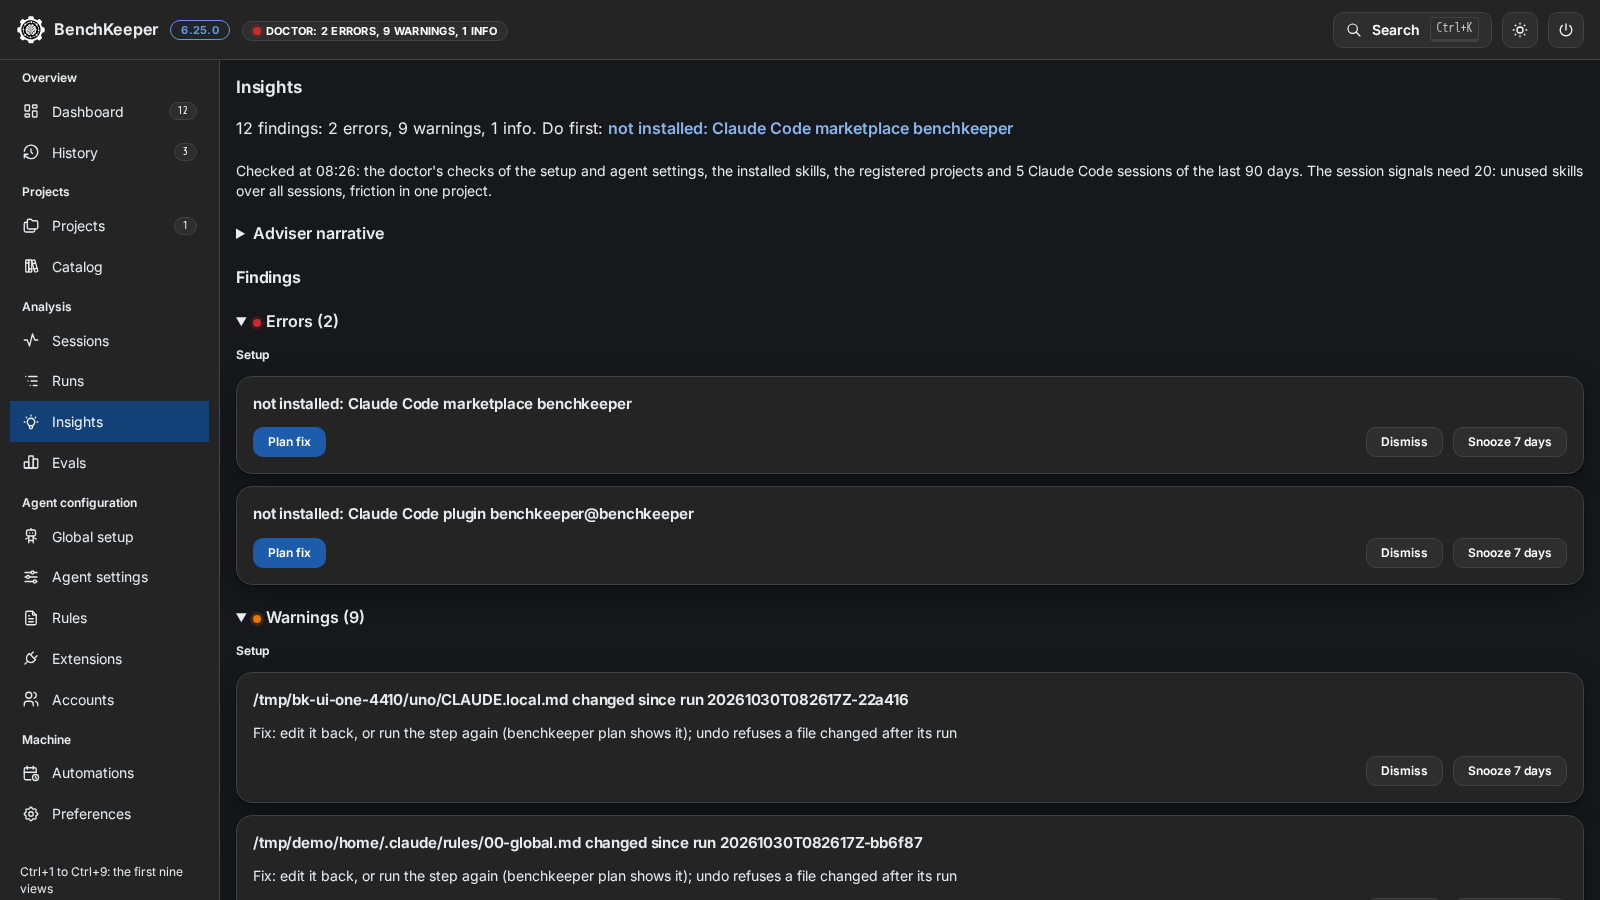
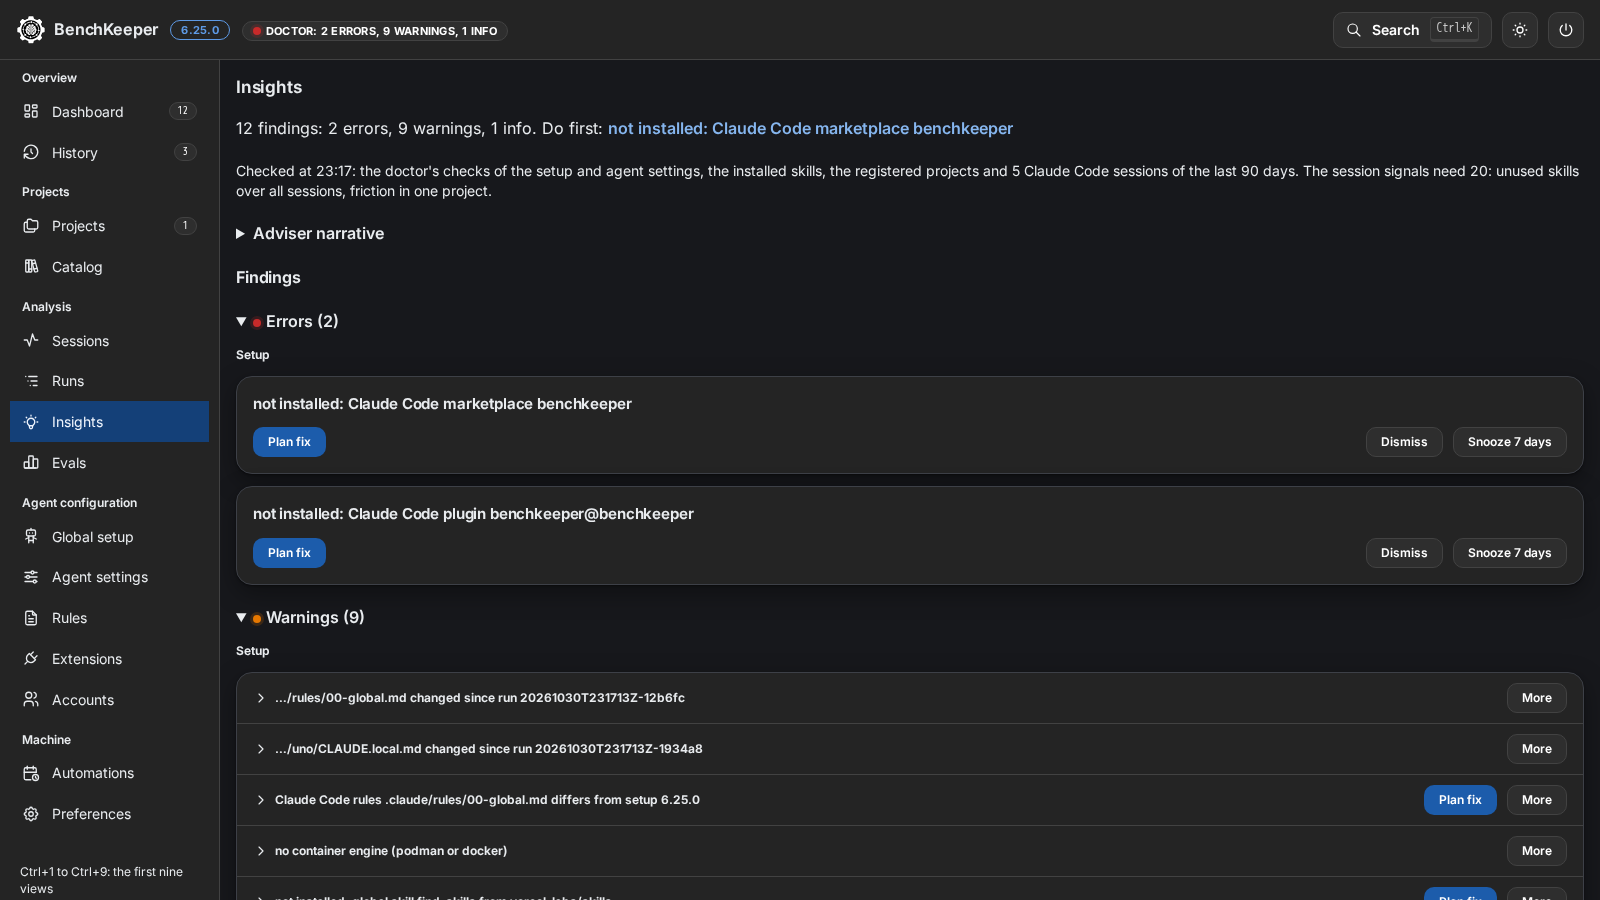
feat(app): show Insights errors as cards and the rest as rows (#841)
* feat(app): show Insights errors as cards and the rest as rows

Errors keep their full cards. Warnings and info are one-line rows on one
surface per area: the title, the fix button and a More menu with Dismiss
and Snooze 7 days. The title opens the full message, the evidence, the
setting facts, the fix hint and the documentation link. A path of four or
more parts shows its last two in a row's title, in full on hover and in
the opened row.

Refs #814

* feat(app): shorten Insights paths with spaces in folder names

A folder name in a row title's path may hold spaces; the last part may not, as the words after a path are not part of it. The Insights UI test reaches Snooze 7 days through the More menu with the arrow keys.

Refs #814

* feat(app): shorten Insights paths that start with a tilde or a dot

A row title also shortens a path written from the home folder (~/...) or from the current folder (./...).

Refs #814

* fix(app): name the Insights row details only while they are open

The title button of a row sets aria-controls only while the details it controls are on the page.

Refs #814

* fix(app): disable the Insights row menu items while a triage is saved

Dismiss and Snooze 7 days in a row's More menu wait while a triage is saved, as the More button and the card buttons do.

Refs #814

* test(app): check that a row's More waits while an Insights triage is saved

Refs #814

diff --git a/app/ui/insights.jsx b/app/ui/insights.jsx
@@ -1,11 +1,12 @@
-import { Anchor, Badge, Button, Code, Group, List, Loader, Modal, Paper, Radio, Stack, Text, Title } from '@mantine/core';
+import { Anchor, Badge, Box, Button, Code, Group, List, Loader, Menu, Modal, Paper, Radio, Stack, Text, Title, UnstyledButton } from '@mantine/core';
+import { IconChevronDown, IconChevronRight } from '@tabler/icons-react';
 import { useMemo, useRef, useState } from 'react';
 import { api } from './api.js';
 import { splitSource } from './fixsource.js';
 import { LEVEL_COLOR, fixAction } from './fix.jsx';
 import { levelCounts } from '../src/levels.mjs';
 import { CancelJob, Cli, SettingFactsOf, useJob } from './parts.jsx';
-import { Dot, Loading, Note, href, useAnnounce, useApi } from './shell.jsx';
+import { Dot, Loading, Note, href, icon, useAnnounce, useApi } from './shell.jsx';
 import { ActionPlan } from './skillstates.jsx';
 
 const SEVERITIES = [['error', 'Errors'], ['warning', 'Warnings'], ['info', 'Info']];
@@ -34,21 +35,45 @@ function Evidence({ finding: { evidence: e } }) {
 // A skill proposal opens the plan of its project with the same switches as the Catalog; nothing is written before that plan is applied.
 const proposal = (f) => f.evidence.action && { dir: f.evidence.dir, title: f.message, params: f.evidence.skills.flatMap((s) => [[f.evidence.action, s.name], ['focus', s.name]]) };
 
+// What the setup can do about a finding: the doctor's finding shape decides whether the setup can fix it, as in the Dashboard.
+const fixOf = (f) => ({ action: fixAction({ ...f.evidence, message: f.message, fix: f.fix }), plan: proposal(f), ...splitSource(f.fix) });
+
+function Details({ finding: f, fix: { action, plan, text, source } }) {
+  return (
+    <>
+      {f.settings && <SettingFactsOf settings={f.settings} />}
+      <Evidence finding={f} />
+      {!((action || plan) && f.fix.startsWith('benchkeeper ')) && <Text size="sm">Fix: {text}</Text>}
+      {source && <Anchor href={source} target="_blank" rel="noreferrer" size="sm" title={source} w="fit-content">Documentation</Anchor>}
+    </>
+  );
+}
+
+function FixButtons({ fix: { action, plan }, onPlan }) {
+  return (
+    <>
+      {action && <Button component="a" href={action[0]} size="xs">{action[1]}</Button>}
+      {plan && <Button size="xs" onClick={() => onPlan(plan)}>Plan</Button>}
+    </>
+  );
+}
+
+// A path of four or more parts shows its last two in a row's title; the title's hover and the opened row show it in full.
+// A folder name may hold spaces; the last part may not, as the words after a path are not part of it.
+const PATH = /(?<![\w:/.~-])(?:[~.]|[A-Za-z]:)?(?:[\\/][^\s\\/:,;()'"]+(?: [^\s\\/:,;()'"]+)*(?=[\\/])){3,}[\\/][^\s\\/:,;()'"]+/g;
+const shortPaths = (text) => text.replace(PATH, (p) => `\u2026/${p.split(/[\\/]/).slice(-2).join('/')}`);
+// Errors are full cards; warnings and info are rows, so the summary names a finding as its card or row does.
+const titleOf = (f) => (f.severity === 'error' ? f.message : shortPaths(f.message));
+
 function Card({ finding: f, busy, onTriage, onPlan }) {
-  // The doctor's finding shape decides whether the setup can fix it, as in the Dashboard.
-  const action = fixAction({ ...f.evidence, message: f.message, fix: f.fix });
-  const plan = proposal(f), { text, source } = splitSource(f.fix);
+  const fix = fixOf(f);
   return (
     <Paper component="article" withBorder p="md" aria-labelledby={`finding-${f.key}`}>
       <Stack gap="sm">
         <Title order={4} size="h5" id={`finding-${f.key}`} tabIndex={-1} style={{ overflowWrap: 'anywhere' }}>{f.message}</Title>
-        {f.settings && <SettingFactsOf settings={f.settings} />}
-        <Evidence finding={f} />
-        {!((action || plan) && f.fix.startsWith('benchkeeper ')) && <Text size="sm">Fix: {text}</Text>}
-        {source && <Anchor href={source} target="_blank" rel="noreferrer" size="sm" title={source} w="fit-content">Documentation</Anchor>}
+        <Details finding={f} fix={fix} />
         <Group gap="xs">
-          {action && <Button component="a" href={action[0]} size="xs">{action[1]}</Button>}
-          {plan && <Button size="xs" onClick={() => onPlan(plan)}>Plan</Button>}
+          <FixButtons fix={fix} onPlan={onPlan} />
           <Group gap="xs" ml="auto">
             <Button size="xs" variant="default" disabled={busy} onClick={() => onTriage(f, 'dismiss')}>Dismiss</Button>
             <Button size="xs" variant="default" disabled={busy} onClick={() => onTriage(f, 'snooze')}>Snooze 7 days</Button>
@@ -56,6 +81,39 @@ function Card({ finding: f, busy, onTriage, onPlan }) {
         </Group>
       </Stack>
     </Paper>
+  );
+}
+
+// One line: the title opens the evidence and the fix hint, Dismiss and Snooze wait under More. The rows of an area share one surface.
+function Row({ finding: f, first, busy, onTriage, onPlan }) {
+  const [open, setOpen] = useState(false);
+  const fix = fixOf(f), title = shortPaths(f.message);
+  return (
+    <Box component="article" px="md" py="xs" aria-labelledby={`finding-${f.key}`} style={first ? undefined : { borderTop: '1px solid var(--mantine-color-default-border)' }}>
+      <Group gap="xs">
+        <Title order={4} size="h6" id={`finding-${f.key}`} tabIndex={-1} style={{ flex: '1 1 16rem', minWidth: 0 }}>
+          <UnstyledButton aria-expanded={open} aria-controls={open ? `finding-more-${f.key}` : undefined} title={f.message} onClick={() => setOpen(!open)} fz="inherit" fw="inherit" ta="left" style={{ display: 'flex', gap: 6, alignItems: 'center', overflowWrap: 'anywhere' }}>
+            <span style={{ display: 'flex', flexShrink: 0 }}>{icon(open ? IconChevronDown : IconChevronRight)}</span>{title}
+          </UnstyledButton>
+        </Title>
+        <Group gap="xs" ml="auto">
+          <FixButtons fix={fix} onPlan={onPlan} />
+          <Menu withinPortal={false} position="bottom-end">
+            <Menu.Target><Button size="xs" variant="default" disabled={busy}>More</Button></Menu.Target>
+            <Menu.Dropdown>
+              <Menu.Item disabled={busy} onClick={() => onTriage(f, 'dismiss')}>Dismiss</Menu.Item>
+              <Menu.Item disabled={busy} onClick={() => onTriage(f, 'snooze')}>Snooze 7 days</Menu.Item>
+            </Menu.Dropdown>
+          </Menu>
+        </Group>
+      </Group>
+      {open && (
+        <Stack gap="sm" mt="xs" id={`finding-more-${f.key}`}>
+          {title !== f.message && <Text size="sm" style={{ overflowWrap: 'anywhere' }}>{f.message}</Text>}
+          <Details finding={f} fix={fix} />
+        </Stack>
+      )}
+    </Box>
   );
 }
 
@@ -190,7 +248,7 @@ export function Insights() {
             <>
               {error && <Note color="red" title="Not saved">{error}</Note>}
               <Text>
-                {order.length ? <>{plural(order.length, 'finding')}: {counts}. Do first: <Anchor component="button" fw={600} ta="left" onClick={() => goTo(order[0])}>{order[0].message}</Anchor></>
+                {order.length ? <>{plural(order.length, 'finding')}: {counts}. Do first: <Anchor component="button" fw={600} ta="left" onClick={() => goTo(order[0])}>{titleOf(order[0])}</Anchor></>
                   : hidden.length ? `No findings shown: ${hidden.length} dismissed or snoozed.` : 'No findings.'}
               </Text>
               <Text size="sm">
@@ -207,7 +265,9 @@ export function Insights() {
                     {areas.map(([area, list]) => (
                       <Stack key={area} gap="sm">
                         <Title order={3} size="h6">{area}</Title>
-                        {list.map((f) => <Card key={f.key} finding={f} busy={busy != null} onTriage={(g, a) => triage(g, a, next(g))} onPlan={setAct} />)}
+                        {sev === 'error'
+                          ? list.map((f) => <Card key={f.key} finding={f} busy={busy != null} onTriage={(g, a) => triage(g, a, next(g))} onPlan={setAct} />)
+                          : <Paper withBorder>{list.map((f, i) => <Row key={f.key} finding={f} first={!i} busy={busy != null} onTriage={(g, a) => triage(g, a, next(g))} onPlan={setAct} />)}</Paper>}
                       </Stack>
                     ))}
                   </Stack>

diff --git a/web/src/components/AppPage.tsx b/web/src/components/AppPage.tsx
@@ -90,7 +90,7 @@ export const VIEWS: { id: string; view: string; title: string; shot: string; alt
   },
   {
     id: 'insights', view: 'insights', title: 'Insights', shot: 'insights',
-    alt: 'The Insights view: the number of findings by level with the one to do first, what was checked, the folded adviser narrative, then the findings grouped by level and area, each with its evidence, its fix and the Dismiss and Snooze 7 days buttons.',
+    alt: 'The Insights view: the number of findings by level with the one to do first, what was checked, the folded adviser narrative, then the findings grouped by level and area: errors as cards with their evidence, fix and the Dismiss and Snooze 7 days buttons, warnings and info as one-line rows with their fix button and a More menu that holds Dismiss and Snooze 7 days.',
     text: [
       'Findings of the setup and the sessions: doctor findings, agent settings, versions behind, installed skills no session used and friction in one project. They are grouped by level (error, warning, info) and area, most severe first, each with its evidence and a fix or a Plan button.',
       'The session signals need 20 Claude Code sessions of the last 90 days and report nothing below that. Dismiss and Snooze 7 days are kept per finding; a finding whose evidence changed comes back.',
